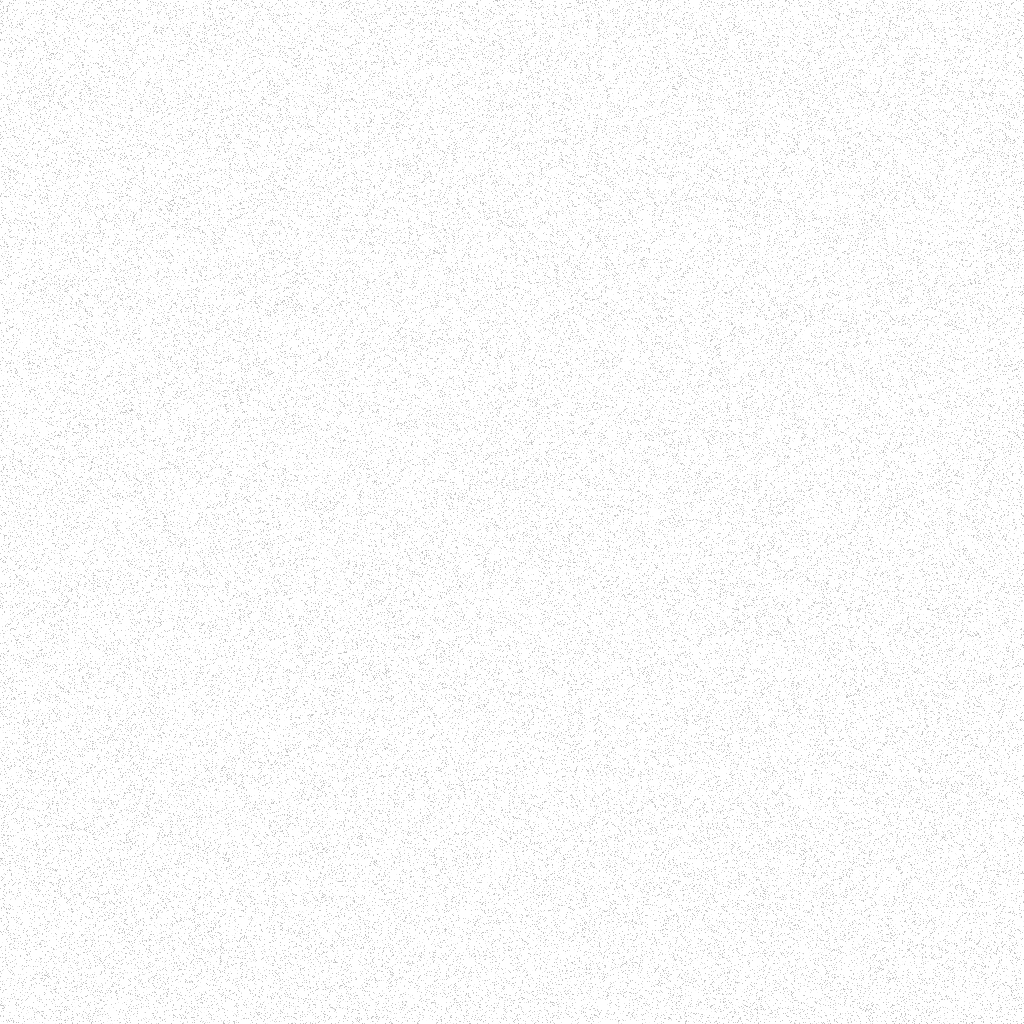
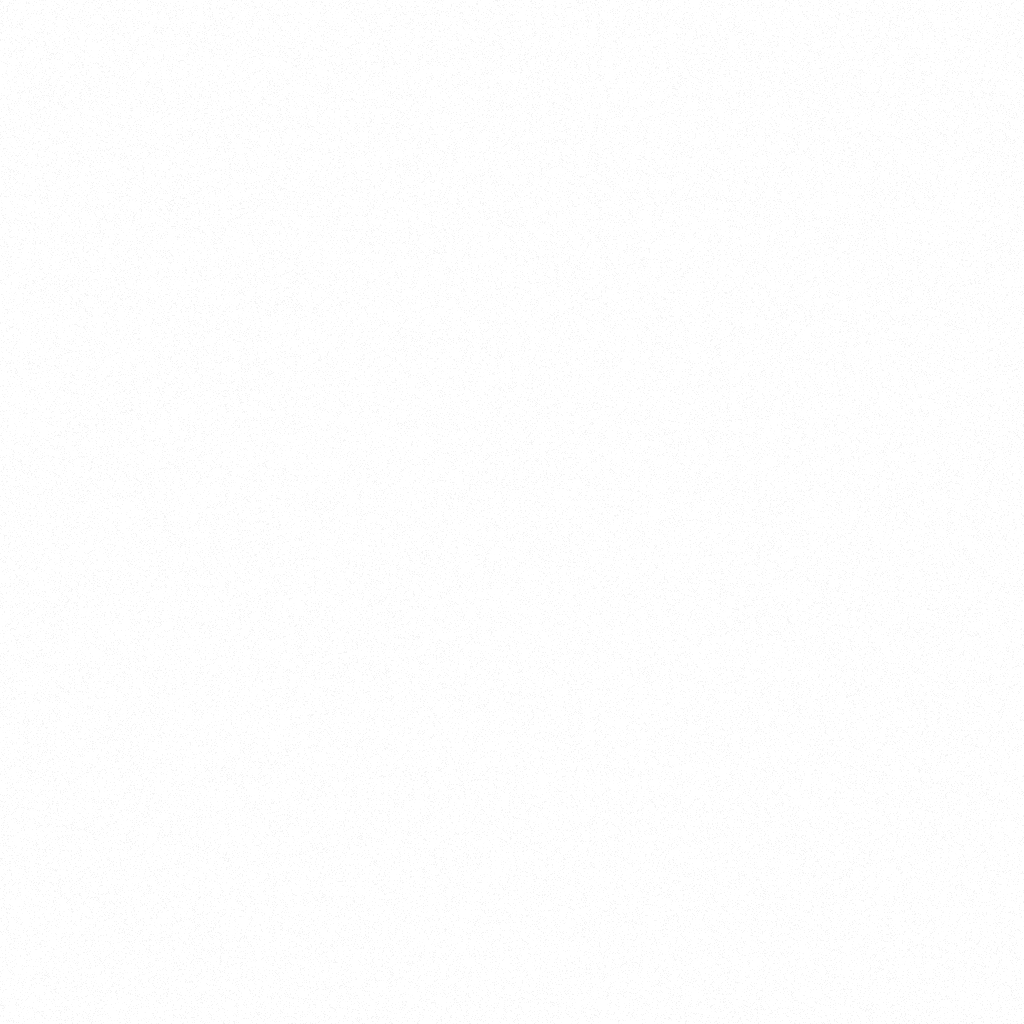
Background Noise Added

diff --git a/tailwind.config.js b/tailwind.config.js
@@ -1,63 +1,92 @@
 /** @type {import('tailwindcss').Config} */
 export default {
-  content: ['./index.html', './src/**/*.{js,ts,jsx,tsx}'],
-  darkMode: 'class', // Enable dark mode with class
+  content: ["./index.html", "./src/**/*.{js,ts,jsx,tsx}"],
+  darkMode: "class", // Enable dark mode with class
   theme: {
     extend: {
+      backgroundImage: {
+        "light-noise":
+          "linear-gradient(rgba(255,255,255,0.6), rgba(255,255,255,0.6)), url('/lightbg2.png')",
+        "dark-noise":
+          "linear-gradient(rgba(0,0,0,0.6), rgba(0,0,0,0.6)), url('/darkbg.png')",
+      },
+
+      backgroundOpacity: {
+        10: "0.1",
+        20: "0.2",
+        30: "0.3",
+        40: "0.4",
+        50: "0.5",
+        60: "0.6",
+        70: "0.7",
+        80: "0.8",
+        90: "0.9",
+      },
       colors: {
         // Primary colors
         primary: {
-          50: '#f0f9ff',
-          100: '#e0f2fe',
-          200: '#bae6fd',
-          300: '#7dd3fc',
-          400: '#38bdf8',
-          500: '#0ea5e9',
-          600: '#0284c7',
-          700: '#0369a1',
-          800: '#075985',
-          900: '#0c4a6e',
-          950: '#082f49',
+          50: "#f0f9ff",
+          100: "#e0f2fe",
+          200: "#bae6fd",
+          300: "#7dd3fc",
+          400: "#38bdf8",
+          500: "#0ea5e9",
+          600: "#0284c7",
+          700: "#0369a1",
+          800: "#075985",
+          900: "#0c4a6e",
+          950: "#082f49",
         },
         // Secondary colors
         secondary: {
-          50: '#fdf4ff',
-          100: '#fae8ff',
-          200: '#f5d0fe',
-          300: '#f0abfc',
-          400: '#e879f9',
-          500: '#d946ef',
-          600: '#c026d3',
-          700: '#a21caf',
-          800: '#86198f',
-          900: '#701a75',
-          950: '#4a044e',
+          50: "#fdf4ff",
+          100: "#fae8ff",
+          200: "#f5d0fe",
+          300: "#f0abfc",
+          400: "#e879f9",
+          500: "#d946ef",
+          600: "#c026d3",
+          700: "#a21caf",
+          800: "#86198f",
+          900: "#701a75",
+          950: "#4a044e",
         },
         // Accent colors
         accent: {
-          50: '#fffbeb',
-          100: '#fef3c7',
-          200: '#fde68a',
-          300: '#fcd34d',
-          400: '#fbbf24',
-          500: '#f59e0b',
-          600: '#d97706',
-          700: '#b45309',
-          800: '#92400e',
-          900: '#78350f',
-          950: '#451a03',
+          50: "#fffbeb",
+          100: "#fef3c7",
+          200: "#fde68a",
+          300: "#fcd34d",
+          400: "#fbbf24",
+          500: "#f59e0b",
+          600: "#d97706",
+          700: "#b45309",
+          800: "#92400e",
+          900: "#78350f",
+          950: "#451a03",
         },
       },
       fontFamily: {
-        sans: ['Inter', 'ui-sans-serif', 'system-ui', '-apple-system', 'BlinkMacSystemFont', 'Segoe UI', 'Roboto', 'Helvetica Neue', 'Arial', 'sans-serif'],
+        sans: [
+          "Inter",
+          "ui-sans-serif",
+          "system-ui",
+          "-apple-system",
+          "BlinkMacSystemFont",
+          "Segoe UI",
+          "Roboto",
+          "Helvetica Neue",
+          "Arial",
+          "sans-serif",
+        ],
       },
       animation: {
-        'float': 'float 6s ease-in-out infinite',
+        float: "float 6s ease-in-out infinite",
       },
       keyframes: {
         float: {
-          '0%, 100%': { transform: 'translateY(0)' },
-          '50%': { transform: 'translateY(-20px)' },
+          "0%, 100%": { transform: "translateY(0)" },
+          "50%": { transform: "translateY(-20px)" },
         },
       },
     },

diff --git a/src/components/Layout.tsx b/src/components/Layout.tsx
@@ -4,17 +4,43 @@ import React from "react";
 const Layout = ({ children }) => {
   return (
     <div className="bg-transparent flex flex-col items-center w-full">
-      <div className="relative w-full max-w-full overflow-hidden bg-darkmain-bg">
+      <div
+        className="
+          relative w-full max-w-full min-h-screen overflow-hidden
+          bg-light-noise dark:bg-dark-noise
+          bg-opacity-5 dark:bg-opacity-0
+          bg-repeat bg-fixed bg-[length:auto_auto]
+          before:absolute before:inset-0
+          before:bg-light-noise dark:before:bg-dark-noise
+          before:opacity-10 dark:before:opacity-10
+          before:pointer-events-none before:z-0
+        "
+      >
         {/* Background gradients */}
-        <div className="absolute inset-0 pointer-events-none">
+        <div className="fixed inset-0 pointer-events-none">
           <div className="flex flex-col h-full justify-between">
+            {/* Header gradient */}
             <img
-              className="w-full h-[670px]"
+              className="`
+                w-full h-[670px]                  /* desktop */
+                lg:h-[670px]
+                md:h-[520px]                     /* tablets */
+                sm:h-[420px]                     /* large phones */
+                xs:h-[320px]                     /* small phones */
+              "
               alt="Header gradient"
               src="/header-gradient.svg"
             />
+
+            {/* Footer gradient */}
             <img
-              className="w-full h-[659px]"
+              className="
+                w-full h-[659px]
+                lg:h-[659px]
+                md:h-[520px]
+                sm:h-[500px]
+                xs:h-[400px]
+              "
               alt="Footer gradient"
               src="/footer-gradient.svg"
             />
@@ -22,14 +48,17 @@ const Layout = ({ children }) => {
         </div>
 
         {/* Main Content */}
-        <main className=" max-w-4xl mx-auto flex-1 z-10 ">{children}</main>
-
-        {/* Footer */}
-        {/* <footer className="p-4 text-white z-10">
-        <p>&copy; 2025 My Website. All rights reserved.</p>
-      </footer> */}
-
-        {/* Footer Gradient */}
+        <main
+          className="
+            max-w-4xl mx-auto flex-1 z-10
+            px-4                           /* default side-padding mobile */
+            sm:px-6                        /* a bit wider on phones */
+            md:px-8                        /* tablets */
+            lg:px-0                        /* desktop unchanged */
+          "
+        >
+          {children}
+        </main>
       </div>
     </div>
   );

diff --git a/src/App.tsx b/src/App.tsx
@@ -1,20 +1,11 @@
-import {
-  BrowserRouter as Router,
-  Routes,
-  Route,
-  Navigate,
-} from "react-router-dom";
+import { BrowserRouter as Router, Routes, Route } from "react-router-dom";
 import { HelmetProvider } from "react-helmet-async";
 import { ThemeProvider } from "./context/ThemeContext";
-import Header from "./components/Header";
-import Footer from "./components/Footer";
 import SEO from "./components/SEO";
 import Home from "./pages/Home";
 import Work from "./pages/Work";
-import Services from "./pages/Services";
 import About from "./pages/About";
 import Contact from "./pages/ContactPage";
-import Layout from "./components/Layout";
 import RedirectToExternal from "./pages/RedirectToExternal";
 
 function App() {
@@ -23,29 +14,17 @@ function App() {
       <ThemeProvider>
         <Router>
           <SEO />
-          {/* <div className="absolute inset-0 pointer-events-none -z-10">
-            <div className="flex flex-col h-full justify-between">
-              <img
-                className="w-full h-[670px]"
-                alt="Header gradient"
-                src="/header-gradient.svg"
-              />
-            </div>
-          </div> */}
-          {/* <div className="min-h-screen max-w-4xl text-gray-900 dark:text-white mx-auto "> */}
-          {/* Main content */}
-          {/* <Header /> */}
-          <main className="">
-            <Routes>
-              <Route path="/" element={<Home />} />
-              <Route path="/work" element={<Work />} />
-              <Route path="/services" element={<RedirectToExternal />} />
-              <Route path="/about" element={<About />} />
-              <Route path="/contact" element={<Contact />} />
-            </Routes>
-          </main>
-          {/* <Footer /> */}
-          {/* </div> */}
+          <div className="">
+            <main className="relative z-10">
+              <Routes>
+                <Route path="/" element={<Home />} />
+                <Route path="/work" element={<Work />} />
+                <Route path="/services" element={<RedirectToExternal />} />
+                <Route path="/about" element={<About />} />
+                <Route path="/contact" element={<Contact />} />
+              </Routes>
+            </main>
+          </div>
         </Router>
       </ThemeProvider>
     </HelmetProvider>

diff --git a/src/pages/Home.tsx b/src/pages/Home.tsx
@@ -43,9 +43,22 @@ import Footer from "../components/Footer";
 export const HomeDark = (): JSX.Element => {
   return (
     <div className="bg-transparent flex flex-col items-center w-full">
-      <div className="relative w-full max-w-full overflow-hidden bg-darkmain-bg">
+      <div
+        className="
+    relative w-full max-w-full min-h-screen overflow-hidden
+    bg-light-noise dark:bg-dark-noise                       /* background images */
+    bg-opacity-5 dark:bg-opacity-0                          /* normal bg-color opacity */
+    bg-repeat bg-fixed bg-[length:auto_auto]
+    before:absolute before:inset-0
+    before:bg-light-noise dark:before:bg-dark-noise         /* same images */
+    before:opacity-10 dark:before:opacity-10                /* ✅ image opacity here */
+    before:pointer-events-none before:z-0
+  "
+      >
+        {/* your content */}
+
         {/* Background gradients */}
-        <div className="absolute inset-0 pointer-events-none">
+        <div className="absolute inset-0 pointer-events-none z-0">
           <div className="flex flex-col h-full justify-between">
             <img
               className="w-full h-[670px]"
@@ -61,7 +74,7 @@ export const HomeDark = (): JSX.Element => {
         </div>
 
         {/* Main content */}
-        <div className=" max-w-3xl mx-auto flex-1 z-10 ">
+        <div className="max-w-3xl mx-auto flex-1 z-10 relative">
           <Header />
           <Hero />
           <Projects />

diff --git a/index.html b/index.html
@@ -4,7 +4,7 @@
     <meta charset="UTF-8" />
     <link rel="icon" type="image/svg+xml" href="/vite.svg" />
     <meta name="viewport" content="width=device-width, initial-scale=1.0" />
-    <title>durgesh ✦ designer & developer</title>
+    <title>durgesh ✦ designer & developer.</title>
     <meta
       name="description"
       content="Frontend developer and designer specializing in creating beautiful, functional websites and digital experiences."

diff --git a/src/index.css b/src/index.css
@@ -24,6 +24,13 @@
     flex-direction: column;
     min-height: 100vh;
   }
+
+  .app-background {
+    background-image: url("/public/lightbg.png");
+    background-repeat: repeat;
+    background-size: auto;
+    background-attachment: fixed;
+  }
 }
 
 @layer components {
